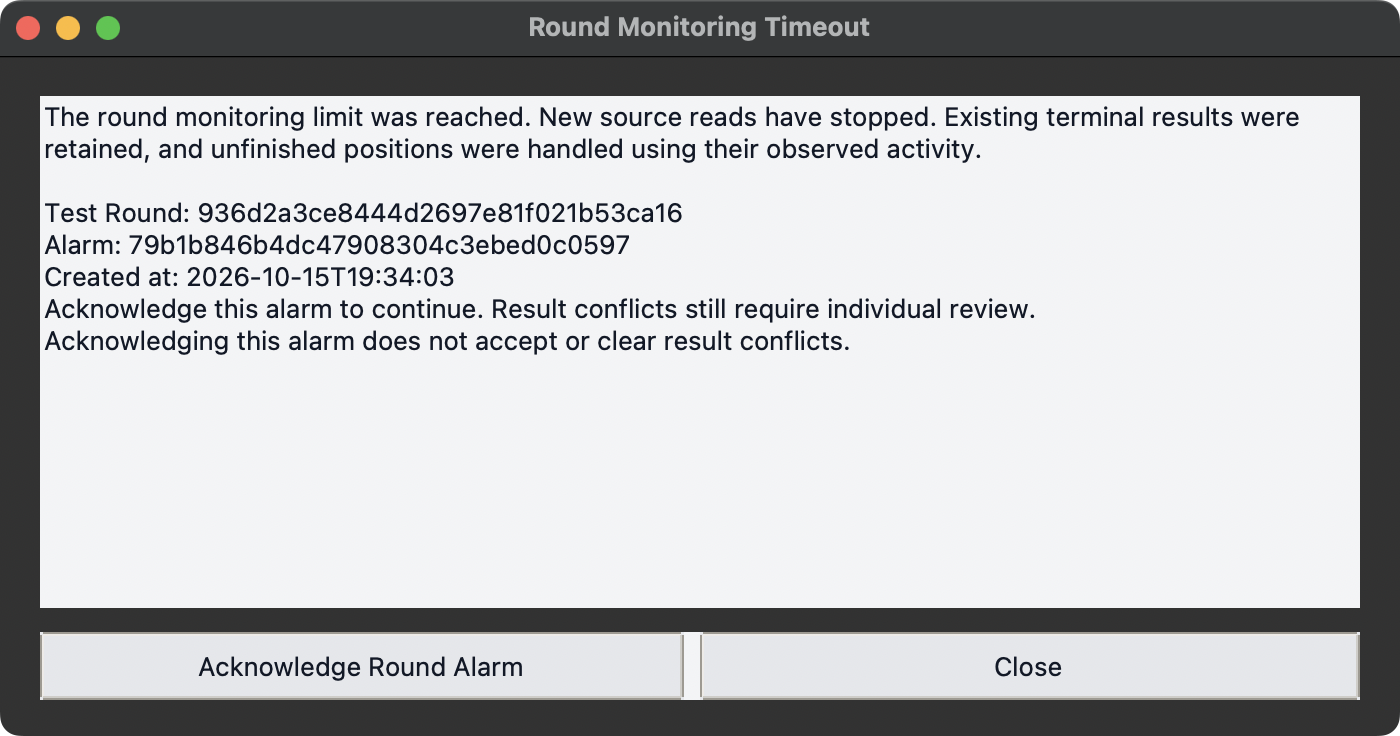
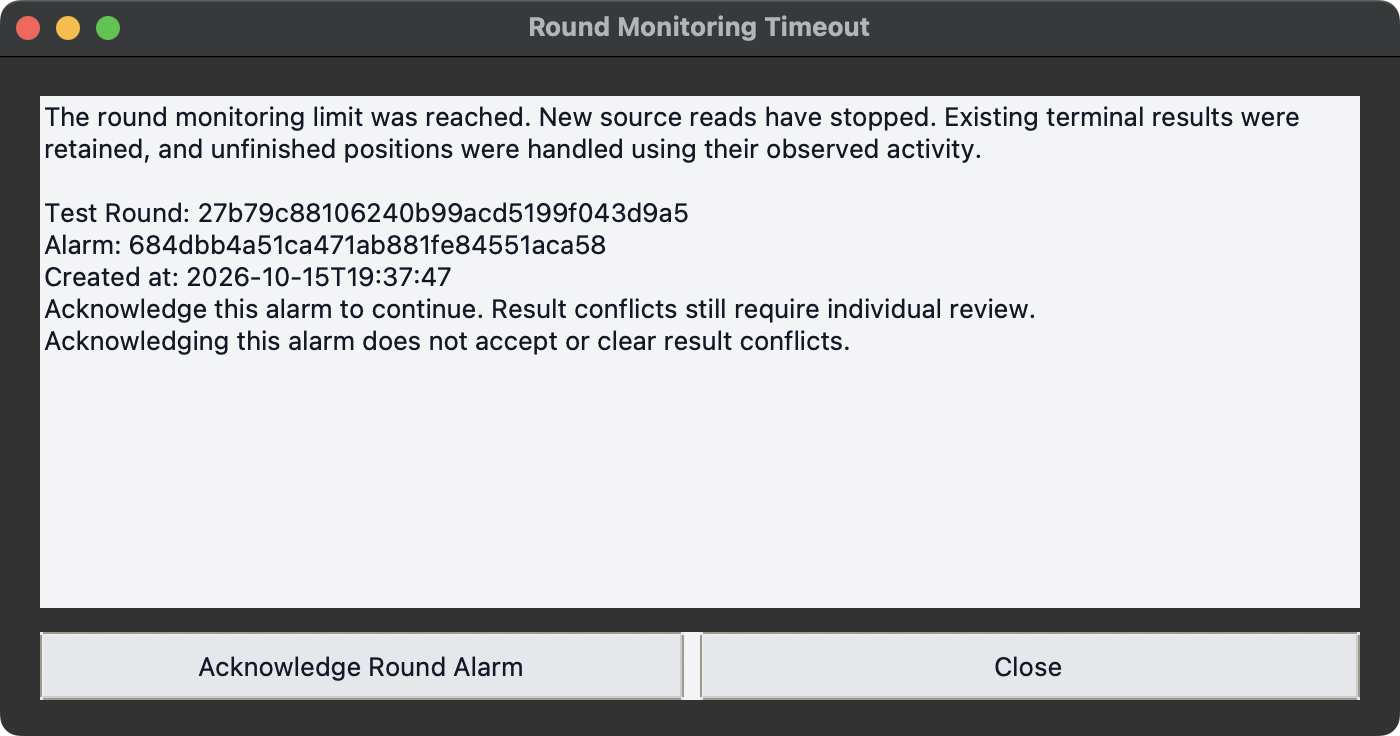
fix: keep HM3 review window clear of KVM marks

Changed region(s): [[0.0921, 0.25, 0.4914, 0.4062]]

diff --git a/B518 Log Solution/src/b518_log_solution.py b/B518 Log Solution/src/b518_log_solution.py
@@ -1943,9 +1943,27 @@ class B518LogSolutionApp:
             window = tk.Toplevel(self.root)
             self.conflict_window = window
             self.root.update_idletasks()
-            window_x = max(self.root.winfo_rootx() - 820 - 12, 0)
-            window_y = max(self.root.winfo_rooty(), 0)
-            window.geometry("960x600+{}+{}".format(window_x, window_y))
+            window_width, window_height, window_gap = 960, 600, 12
+            root_x = self.root.winfo_rootx()
+            root_y = self.root.winfo_rooty()
+            root_width = self.root.winfo_width()
+            root_height = self.root.winfo_height()
+            screen_width = self.root.winfo_screenwidth()
+            screen_height = self.root.winfo_screenheight()
+            left_x = root_x - window_width - window_gap
+            right_x = root_x + root_width + window_gap
+            if left_x >= 0:
+                window_x, window_y = left_x, root_y
+            elif right_x + window_width <= screen_width:
+                window_x, window_y = right_x, root_y
+            else:
+                below_y = root_y + root_height + window_gap
+                above_y = root_y - window_height - window_gap
+                window_x = max(0, min(root_x, screen_width - window_width))
+                window_y = (below_y if below_y + window_height <= screen_height
+                            else max(0, above_y))
+            window.geometry("{}x{}+{}+{}".format(
+                window_width, window_height, window_x, window_y))
             window.minsize(820, 540)
             window.transient(self.root)
             window.protocol("WM_DELETE_WINDOW", window.withdraw)

diff --git a/B518 Log Solution/tests/test_log_solution_ui.py b/B518 Log Solution/tests/test_log_solution_ui.py
@@ -7733,6 +7733,16 @@ class LogSolutionUiTests(unittest.TestCase):
                 collect(window)
                 return sorted(values)
 
+            def overlaps(first, second):
+                first_left, first_top = first.winfo_rootx(), first.winfo_rooty()
+                first_right = first_left + first.winfo_width()
+                first_bottom = first_top + first.winfo_height()
+                second_left, second_top = second.winfo_rootx(), second.winfo_rooty()
+                second_right = second_left + second.winfo_width()
+                second_bottom = second_top + second.winfo_height()
+                return (first_left < second_right and second_left < first_right and
+                        first_top < second_bottom and second_top < first_bottom)
+
             def capture(window, filename):
                 evidence_root = os.environ.get("B518_TK_EVIDENCE_DIR")
                 if not evidence_root:
@@ -7805,6 +7815,10 @@ class LogSolutionUiTests(unittest.TestCase):
                 conflict_window.geometry("960x600")
                 alarm_window.geometry("700x340")
                 root.update()
+                for marker in (app.kvm_state_marker, app.kvm_layout_marker,
+                               *app.kvm_result_blocks.values()):
+                    self.assertFalse(overlaps(conflict_window, marker),
+                                     "Conflict review must not cover KVM markers")
                 app.conflict_list.selection_clear(0, "end")
                 app.conflict_list.selection_set(17)
                 app.conflict_list.activate(17)

diff --git a/B518 Log Solution/docs/refactoring/evidence/hm3/local-validation.md b/B518 Log Solution/docs/refactoring/evidence/hm3/local-validation.md
@@ -8,7 +8,7 @@
 ## 真 Tk 操作與畫面證據
 
 - 衝突視窗使用 28 個同輪候選，選取第 18 筆；原始／候選 SN 與路徑為長英文資料，候選路徑和原路徑使用相同檔名但位於不同目錄。比較表保留 PASS／FAIL 紅色粗體差異及來源時間，來源檔名顯示目錄提示。長候選文字可由列表水平捲軸閱讀，詳細原文與診斷可垂直捲動。
-- 以真正輪次逾時建立未確認警報。切換 English／繁中四次，檢查視窗大小、每個可見控件 bounds、候選選取、分隔位置、詳細文字閱讀行、結果資料、警報未確認狀態及 KVM 區塊／標記幾何都不變。
+- 以真正輪次逾時建立未確認警報。切換 English／繁中四次，檢查視窗大小、每個可見控件 bounds、候選選取、分隔位置、詳細文字閱讀行、結果資料、警報未確認狀態及 KVM 區塊／標記幾何都不變。衝突視窗依實際寬度優先放在主視窗左側或右側；兩側空間不足時放在主視窗上方或下方。真 Tk 測例直接檢查衝突視窗矩形不與 KVM 結果格或標記相交。
 - 每語言擷取衝突視窗及警報視窗本身，使用 Quartz `CGWindowListCreateImage(..., kCGWindowListOptionIncludingWindow, ...)`，沒有保存桌面背景。PNG、原生視窗 frame、像素尺寸、控件 bounds、選取與警報狀態記錄在 [window-bounds.json](screenshots/window-bounds.json)。
 - 衝突對照文字採 App 淺色底、黑色實線框；PASS／FAIL 差異色保留。警報文字與背景採 App 淺色；確認鈕狀態仍由輪次準備與人工確認規則控制。
 
